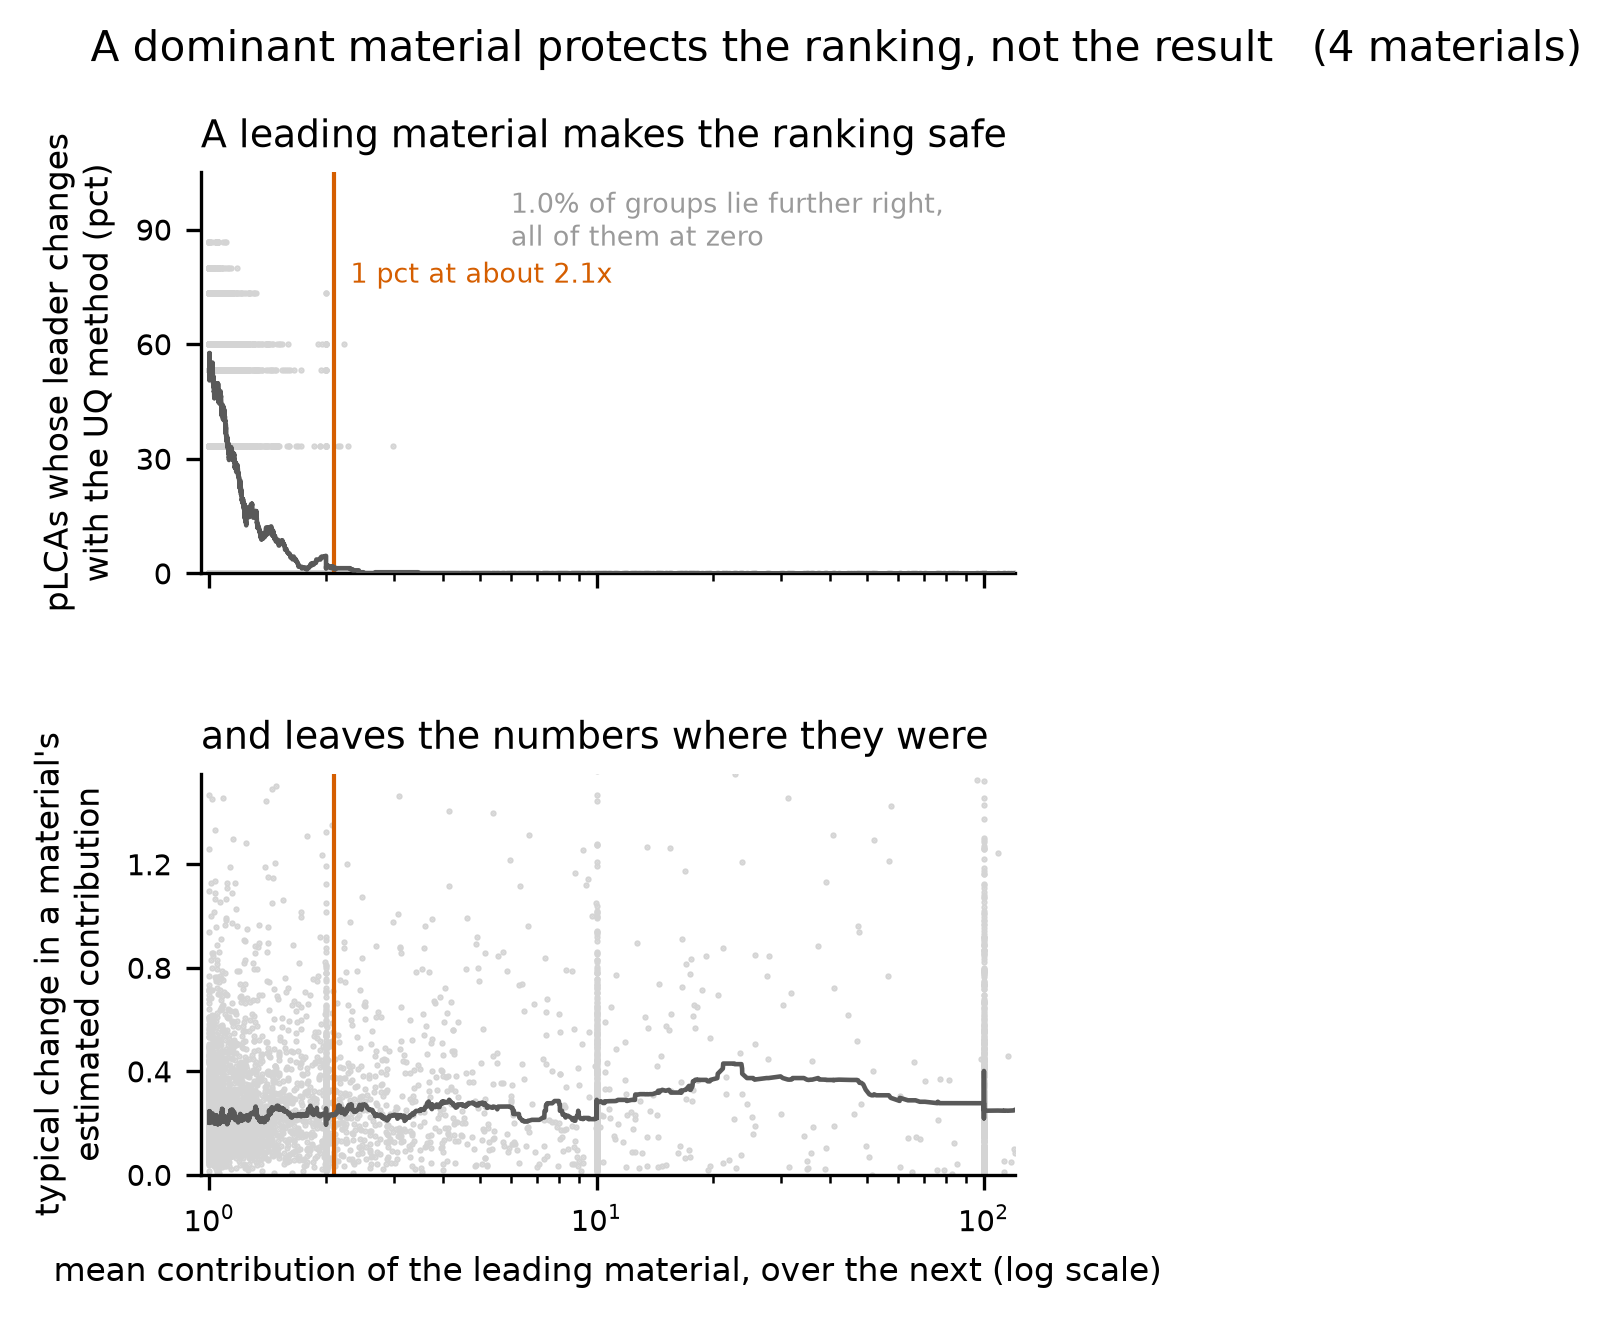
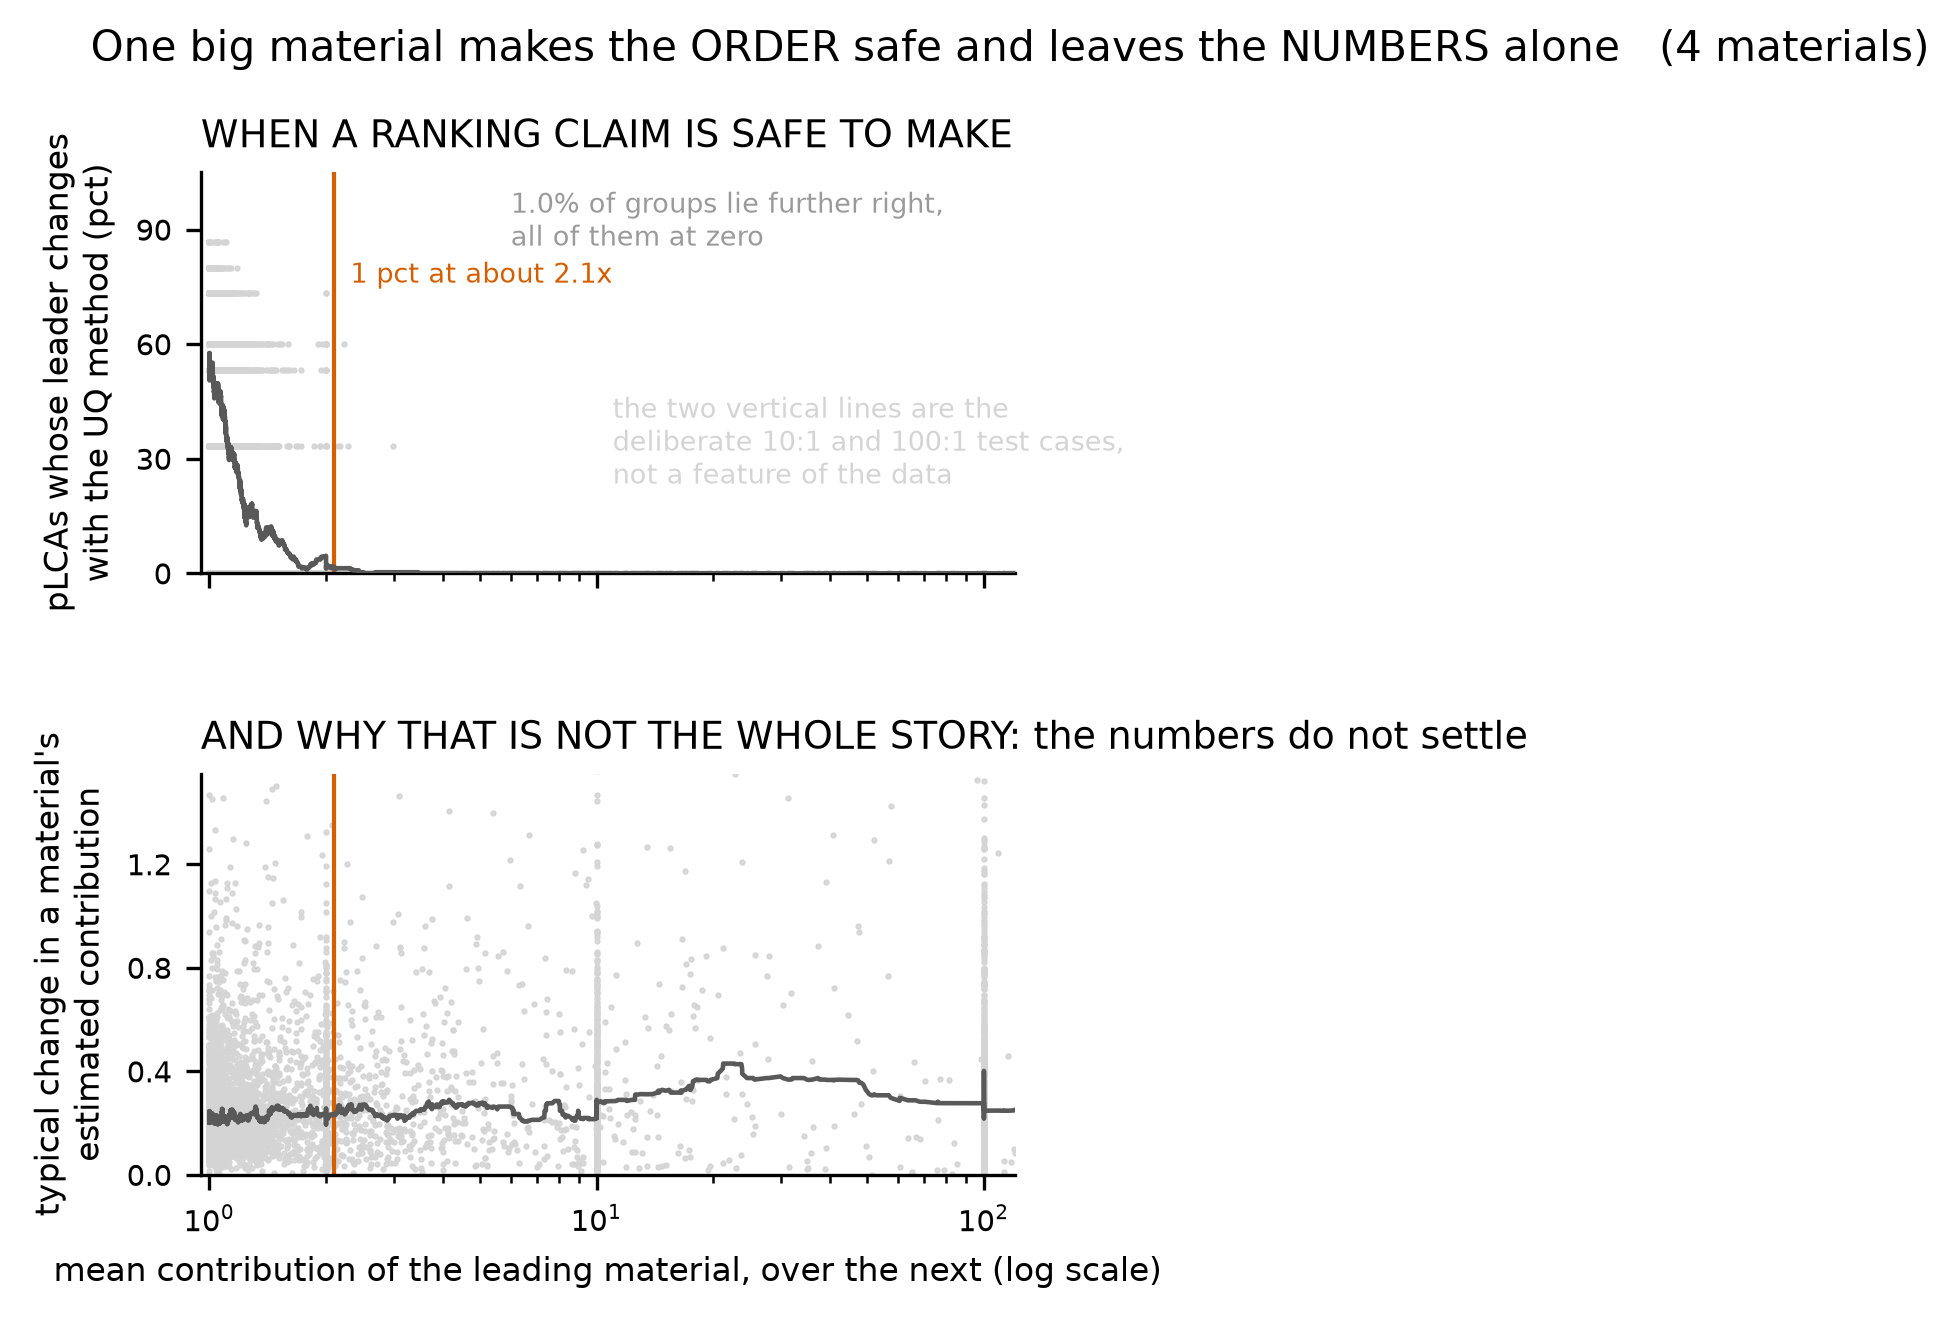
The corrected dispersion answer, and bias at building scale
Two results the author's review produced, now measured and recorded.

DISPERSION. The first test regressed the flip on log(ratio) and log(CV) as
separate terms, which understates dispersion by construction: the right
quantity is the standardized separation and log(r) is the wrong numerator
near r = 1, where every flip happens. Properly tested, dispersion moves the
risk at a fixed lead by a factor of two -- 4.2 percent against 2.0 percent
at a lead of 1.6 to 2.2 -- while the lead needed for a 1 percent risk moves
only from 2.24 to 2.36 across a six-fold range of spread. And the measure
cannot BE the rule, because it saturates at one over the leading material's
coefficient of variation: the median material here can never be more than
1.8 standard deviations clear of a smaller one however large its lead, so a
rule in standard deviations could not tell a 10x lead from a 100x one.

BIAS. A bias of 0.04 per material is a sixth of the noise and looks like
nothing, but summing four materials multiplies the bias by four and the
noise by two. The building-level systematic error runs from -3.81 percent
under the lognormal to +4.98 under the normal, with the KDE inside 1.4, and
more materials will not average it away.

diff --git a/CLAUDE.md b/CLAUDE.md
@@ -2946,24 +2946,74 @@ rather than in conversation.
      real world does not have, which is decision 79's finding reaching the
      decision level.
 
-122. **2026-09-18, Stage 2e review. DISPERSION DOES ENTER THE SAFE-LEAD RULE,
-     IN THE DIRECTION THE AUTHOR EXPECTED, AND IT IS WEAK.** `[AUTHOR]` The
-     author's question about decision 107: "Is it just the relationships of the
-     means? I would've thought CV also plays a role." It does, and the ratio of
-     the means does nearly all the work.
+122. **2026-09-18, Stage 2e review. DISPERSION ENTERS THE SAFE-LEAD RULE AND
+     CANNOT REPLACE IT, BECAUSE THE NATURAL WAY TO WRITE IT DOWN SATURATES.**
+     `[AUTHOR]` The author asked twice, and the second time pointed out that the
+     first answer had not addressed the question: "I figured this would be
+     framed in terms of how many standard deviations apart they are or something
+     like that." That is the right instrument and the first test did not use it.
 
-     A logistic on the log ratio alone reaches a pseudo R2 of **0.3251**; adding
-     the log dispersion of the two materials whose order a flip would exchange
-     takes it to **0.3288**, with coefficients -6.36 on the ratio and **+0.37**
-     on the dispersion. Positive is the expected direction: at the same lead, a
-     wider pair is riskier.
+     **WHAT WAS WRONG THE FIRST TIME.** The flip was regressed on log(ratio) and
+     log(CV) as separate additive terms. The quantity the author named is the
+     standardized separation, which for a leader whose mean contribution is `r`
+     times the runner-up's is
 
-     **What it does to the rule.** The lead a material needs before the choice
-     of UQ method changes the leader less than 1 percent of the time runs from
-     **2.05** for a tightly spread pair to **2.19** for a widely spread one, as
-     the pair's dispersion goes from 0.39 to 1.18. A factor of three in
-     dispersion moves the required lead by 7 percent. **So the rule stays "about
-     two" and the dispersion term is a refinement, not a second mechanism.**
+         z = (r - 1) / sqrt((r * CV_lead) ** 2 + CV_second ** 2)
+
+     and log(r) is the wrong numerator near r = 1, where every flip happens: the
+     gap goes to zero much faster than log(r) does. The first test therefore
+     understated dispersion by construction.
+
+     **WHAT THE PROPER TEST SAYS.** Dispersion moves the risk at a fixed lead,
+     and by a factor of two on solid counts: at a lead of 1.6 to 2.2 the flip
+     rate runs **4.2 percent** for a pair worth 0.3 to 0.6 standard deviations
+     (17,055 comparisons) and **2.0 percent** for one worth more than 1.6
+     (7,845). At a lead of 2.2 to 3.5 it runs 2.6 percent to 0.1 percent.
+
+     **AND THE RULE BARELY MOVES.** The lead needed for a 1 percent risk is
+     **2.24** when both materials sit at a coefficient of variation of 0.25 and
+     **2.36** at 1.5, across a six-fold range of dispersion. So the answer to
+     decision 107 is unchanged and now rests on the right instrument.
+
+     **WHY IT CANNOT BE STATED IN STANDARD DEVIATIONS AT ALL, which is the part
+     worth printing.** The standardized separation SATURATES: as the lead grows,
+     `z` tends to `1 / CV_lead`, because the leading material's own spread grows
+     with its size. The median material in this corpus has a coefficient of
+     variation of 0.55, so **it can never be more than about 1.8 standard
+     deviations clear of a smaller material however large its lead** -- the
+     observed median z goes 0.09, 0.76, 1.19, 1.60, 1.84 as the lead goes from
+     1.2x to over 20x, pinned against its own ceiling of 1.79 to 1.86. A rule
+     written in standard deviations could not tell a 10x lead from a 100x one.
+     The ratio can, which is why it is the rule.
+
+     `TABLE_PLCAFlipByLeadAndSpread.csv` is the table to print: the risk at a
+     given lead, split by how many standard deviations that lead is worth, with
+     counts beside every cell because the extreme corners are thin.
+
+122b. **2026-09-18, Stage 2e review. A SMALL BIAS PER MATERIAL IS A LARGE ERROR
+     FOR A BUILDING, because bias adds and noise does not.** `[AUTHOR]` Asked
+     whether the bias directions of decision 120 were significant or minimal.
+     They are minimal per material and decisive per building.
+
+     On one material a method's bias is about a sixth of its noise: 0.044
+     against 0.269 for `Normal, Uniform`. But summing four materials multiplies
+     the bias by four and the noise by two, and the study's own numbers show the
+     first exactly:
+
+         method                bias per     building      building
+                               material     bias          bias, pct
+         Normal, Variable       +0.0498      +0.1992        +4.98
+         Normal, Uniform        +0.0441      +0.1764        +4.41
+         KDE, Variable          +0.0035      +0.0139        +0.35
+         KDE, Uniform           -0.0141      -0.0564        -1.41
+         Lognormal, Variable    -0.0273      -0.1093        -2.73
+         Lognormal, Uniform     -0.0381      -0.1524        -3.81
+
+     The implied and observed building columns agree to four decimal places
+     because the bias is exactly additive. **So the choice of method shifts a
+     whole building's estimate by up to nine percentage points from end to end,
+     and running more materials will not average it away**, while the random
+     part falls as one over the square root of the count. `TABLE_PLCABias.csv`.
 
 123. **2026-09-18, Stage 2e review. Every negative tick label this project has
      ever drawn was a Unicode minus.** `[DELEGATED, 2e chose to fix]`

diff --git a/reports/MANUSCRIPT_discrepancies.md b/reports/MANUSCRIPT_discrepancies.md
@@ -1507,15 +1507,28 @@ relative figure beside it.**
 | **Fix** | **Text**, and it strengthens the call for real production volumes. `TABLE_PLCAOracleSummary.csv`. |
 | **Status** | Open, text. Decision 121. |
 
-## 112. Dispersion enters the safe-lead rule in the expected direction and is weak
+## 112. Dispersion enters the safe-lead rule, and the natural way to write it down saturates
 
 | | |
 |---|---|
-| **The question** | Whether the lead a material needs is just the ratio of the means, when the coefficient of variation should surely matter too. |
-| **What was measured** | A logistic on the log ratio alone reaches a pseudo R2 of **0.3251**; adding the log dispersion of the two materials whose order a flip would exchange takes it to **0.3288**, with coefficients -6.36 on the ratio and **+0.37** on the dispersion. Positive is the expected direction: at the same lead, a wider pair is riskier. |
-| **What it does to the rule** | The lead needed before the choice of method changes the leader less than 1 percent of the time runs from **2.05** for a tightly spread pair to **2.19** for a widely spread one, as the pair's dispersion triples from 0.39 to 1.18. |
-| **Fix** | **Text.** The rule stays "about two"; the dispersion term is a refinement and not a second mechanism, and saying so is more useful than a two-variable rule nobody would apply. `TABLE_PLCAFlipDrivers.csv`, `TABLE_PLCASafeLead.csv`. |
+| **The question, asked twice** | Whether the lead a material needs is just the ratio of the means, when the spread should surely matter -- and whether it would be better expressed as how many standard deviations apart the two materials are. |
+| **What was wrong the first time** | The flip was regressed on log(ratio) and log(CV) as separate terms. The right quantity is the standardized separation, `(r - 1) / sqrt((r x CV_lead)^2 + CV_second^2)`, and `log(r)` is the wrong numerator near r = 1 where every flip happens, so that test understated dispersion by construction. |
+| **What the proper test says** | Dispersion moves the risk at a fixed lead by a factor of two: at a lead of 1.6 to 2.2 the flip rate runs **4.2 percent** for a pair worth 0.3 to 0.6 standard deviations and **2.0 percent** for one worth more than 1.6. At a lead of 2.2 to 3.5 it runs 2.6 percent to 0.1. |
+| **And the rule barely moves** | The lead needed for a 1 percent risk is **2.24** at a coefficient of variation of 0.25 and **2.36** at 1.5 -- a six-fold range of dispersion moves it by 5 percent. |
+| **Why it cannot be written in standard deviations, which is the part to print** | The measure **saturates**: as the lead grows it tends to `1 / CV_lead`, because the leading material's own spread grows with its size. The median material here has a CV of 0.55, so it can never be more than about **1.8 standard deviations** clear of a smaller one however large its lead; the observed median runs 0.09, 0.76, 1.19, 1.60, 1.84 as the lead goes from 1.2x to over 20x, pinned against its ceiling. A rule in standard deviations could not tell a 10x lead from a 100x one. |
+| **Fix** | **Text**, and print the two-way table rather than a coefficient: the risk at a given lead, split by how many standard deviations that lead is worth, with counts. `TABLE_PLCAFlipByLeadAndSpread.csv`, `TABLE_PLCASafeLead.csv`, `TABLE_PLCASeparationCeiling.csv`. |
 | **Status** | Open, text. Decision 122. |
+
+## 112b. A small bias per material is a large error for a building, because bias adds and noise does not
+
+| | |
+|---|---|
+| **The question** | Whether the bias directions of entry 110 are significant or minimal. |
+| **The answer** | Minimal per material and decisive per building. On one material a method's bias is about a sixth of its noise -- 0.044 against 0.269 for `Normal, Uniform` -- but summing four materials multiplies the bias by four and the noise by two. |
+| **Measured** | Building-level systematic error: `Normal, Variable` **+4.98 percent**, `Normal, Uniform` +4.41, `KDE, Variable` +0.35, `KDE, Uniform` -1.41, `Lognormal, Variable` -2.73, `Lognormal, Uniform` **-3.81**. The implied and observed columns agree to four decimal places because the bias is exactly additive. |
+| **What the paper should say** | **The choice of method shifts a whole building's estimate by up to nine percentage points from end to end, systematically, and using more materials will not average it away** -- the same percentages hold for a twenty-material building while the random part falls as one over the square root of the count. |
+| **Fix** | **Text.** `TABLE_PLCABias.csv`. |
+| **Status** | Open, text. Decision 122b. |
 
 ## 113. Every negative tick label this project has drawn was a Unicode minus
 

diff --git a/reports/HANDOFF_stage-2e.md b/reports/HANDOFF_stage-2e.md
@@ -100,13 +100,17 @@ should take.
    under the normal.
 
    **So what, and this is the one to say out loud:** on a single material a bias
-   of 0.04 disappears into the noise. But bias ADDS across the materials of a
-   building while the random part cancels out, so it is the bias that survives:
-   a normal overstates a four-material building by **4.4 percent**, and it would
-   still overstate a twenty-material building by about 4.4 percent, while the
-   random error would have shrunk to almost nothing. A method that leans one way
-   is a worse problem at building scale than a method that is merely
-   imprecise.
+   of 0.04 disappears into the noise, which is six times larger. But bias ADDS
+   across the materials of a building while the random part cancels out, so the
+   bias is what survives. Measured: the normal overstates a four-material
+   building by **+4.4 and +5.0 percent**, the lognormal understates it by
+   **-3.8 and -2.7 percent**, and the kernel estimate is within **1.4 percent**
+   either way. **So which method you choose shifts your whole building's
+   estimate by up to nine percentage points, systematically, and running more
+   materials will not average it away** -- the same percentages would hold for a
+   twenty-material building while the random error shrank to almost nothing. A
+   method that leans one way is a worse problem at building scale than one that
+   is merely imprecise.
 7. **They fail on the same materials, and the family is not what separates
    them.** Per-material errors correlate **0.892 to 0.970 between methods that
    share a weighting scheme** and only **0.581 to 0.714 across weighting
@@ -206,7 +210,11 @@ they stood.
 **Figure: one big material makes the ORDER safe and leaves the NUMBERS alone.**
 In one sentence for a designer: once a material is clearly your biggest, no
 reasonable modelling choice will argue about that -- but the number you put
-against it is just as uncertain as it ever was. Each grey
+against it is just as uncertain as it ever was. The two vertical stripes of
+points in the lower panel, at 10 and 100 on the horizontal axis, are the
+deliberate 10:1 and 100:1 test cases, which put six thousand comparisons each
+at exactly those ratios; they are a feature of the experiment and not of the
+data. Each grey
 point is one probabilistic LCA -- its own top-two contribution ratio against the
 share of its fifteen method pairs that name a different leader -- with a rolling
 mean through them. The upper panel falls from about 55 percent at equal

diff --git a/CONTEXT.md b/CONTEXT.md
@@ -764,6 +764,9 @@ material breakdown -- the tier is not a mechanism, decision 84) and
 | `TABLE_PLCAOracleSummary.csv` | NB3 | that, per family and weighting. **Read the framing note in the notebook before quoting it**: the contrast is knowing shares against guessing them, not uniform against variable |
 | `TABLE_PLCAFlipDrivers.csv` | NB3 | whether the top-two ratio decides a flip on its own. It nearly does |
 | `TABLE_PLCASafeLead.csv` | NB3 | the lead a material needs, as a function of how spread the two materials are |
+| `TABLE_PLCAFlipByLeadAndSpread.csv` | NB3 | **the table to print for that question.** The risk at a given lead, split by how many standard deviations the lead is worth, with counts beside every cell |
+| `TABLE_PLCASeparationCeiling.csv` | NB3 | why the rule cannot be written in standard deviations: the measure saturates at 1 over the leading material's coefficient of variation |
+| `TABLE_PLCABias.csv` | NB3 | each method's bias per material, its noise per material, and the systematic error that bias implies for the whole building |
 | `TABLE_PLCANRMSE.csv` | NB3 | every pLCA output's NRMSE between the six methods, with a bootstrap interval. None had one before |
 
 `TABLE_PLCAResults.csv` is tidy long format, one row per
